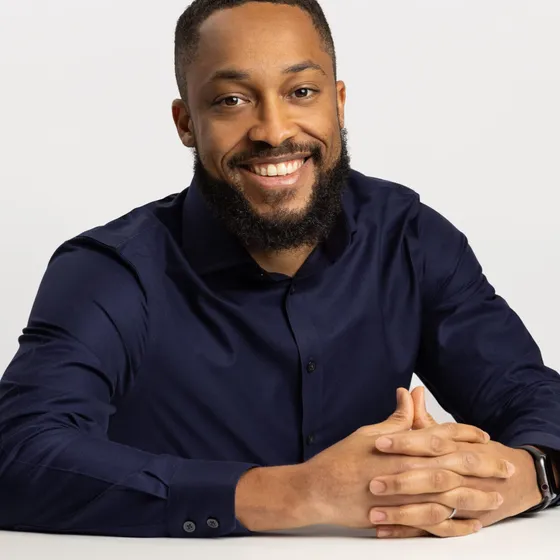
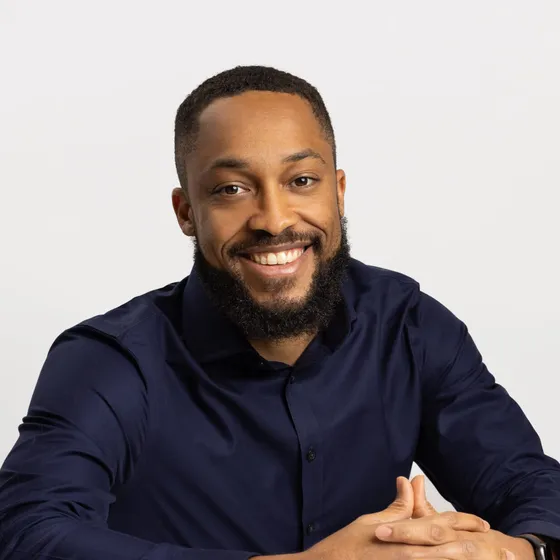
fix: correct AI Summit presenter verbiage + Evol headshot crop
Summit is presented by BERG Collective in partnership with Squarespace (was
"Presented by Squarespace"). Updates hero, footer, and SEO description, and
leads with the BERG logo. Also anchors Evol Greaves' crop to the top so the
top of his head is no longer clipped.

diff --git a/src/pages/AiSummitPage/AiSummitPage.jsx b/src/pages/AiSummitPage/AiSummitPage.jsx
@@ -271,7 +271,7 @@ function useSummitHead() {
   useEffect(() => {
     const title = 'Amplified Intelligence — The BERG AI Summit 2026';
     const description =
-      'Moving at the speed of thought. Join 150+ leaders at Squarespace HQ on June 27, 2026 to bridge the AI fluency gap and future-proof your career. Presented by Squarespace.';
+      'Moving at the speed of thought. Join 150+ leaders at Squarespace HQ on June 27, 2026 to bridge the AI fluency gap and future-proof your career. Presented by BERG Collective in partnership with Squarespace.';
     const url = `${SITE_URL}${PAGE_PATH}`;
 
     const created = [];
@@ -482,15 +482,28 @@ export default function AiSummitPage() {
           <div className={styles.heroGlow} aria-hidden="true" />
           <div className={styles.heroInner}>
             <div className={`${styles.presenting} ${styles.heroEnter}`}>
-              <span className={styles.presentedBy}>Presented by</span>
-              <img
-                className={styles.ssLogo}
-                src="/images/aisummit/squarespace-white.webp"
-                width="150"
-                height="22"
-                alt="Squarespace"
-                fetchPriority="high"
-              />
+              <span className={styles.presentingRow}>
+                <span className={styles.presentedBy}>Presented by</span>
+                <img
+                  className={styles.bergLogoHero}
+                  src="/images/aisummit/berg-white.webp"
+                  width="78"
+                  height="36"
+                  alt="BERG Collective"
+                  fetchPriority="high"
+                />
+              </span>
+              <span className={styles.presentingRow}>
+                <span className={styles.presentedBy}>in partnership with</span>
+                <img
+                  className={styles.ssLogo}
+                  src="/images/aisummit/squarespace-white.webp"
+                  width="132"
+                  height="19"
+                  alt="Squarespace"
+                  fetchPriority="high"
+                />
+              </span>
             </div>
             <img
               className={`${styles.heroLockup} ${styles.heroEnter}`}
@@ -748,22 +761,22 @@ export default function AiSummitPage() {
             <div className={styles.footerPresented}>
               <span className={styles.presentedBy}>Presented by</span>
               <img
-                className={styles.ssLogoFooter}
-                src="/images/aisummit/squarespace-white.webp"
-                width="132"
-                height="19"
-                alt="Squarespace"
-                loading="lazy"
-              />
-            </div>
-            <div className={styles.footerPresented}>
-              <span className={styles.presentedBy}>Organized by</span>
-              <img
                 className={styles.bergLogoFooter}
                 src="/images/aisummit/berg-white.webp"
                 width="100"
                 height="46"
                 alt="BERG Collective"
+                loading="lazy"
+              />
+            </div>
+            <div className={styles.footerPresented}>
+              <span className={styles.presentedBy}>In partnership with</span>
+              <img
+                className={styles.ssLogoFooter}
+                src="/images/aisummit/squarespace-white.webp"
+                width="132"
+                height="19"
+                alt="Squarespace"
                 loading="lazy"
               />
             </div>

diff --git a/scripts/optimize-aisummit-images.js b/scripts/optimize-aisummit-images.js
@@ -23,7 +23,8 @@ const SPEAKERS_OUT = join(OUT, 'speakers');
 // region before the square resize. Missing files are skipped with a warning.
 const SPEAKERS = {
   'dion-ridley': 'dion_headshot.jpg',
-  'evol-greaves': 'evol-headshot.jpg',
+  // Portrait source; auto-crop clipped the top of his head, so anchor near the top.
+  'evol-greaves': { file: 'evol-headshot.jpg', extract: { left: 0, top: 60, width: 1237, height: 1237 } },
   'justin-williams': 'justin williams.jpeg',
   'justin-elliot': 'justin-elliot.png',
   'ian-grant': 'ian grant.jpeg',

diff --git a/src/pages/AiSummitPage/AiSummitPage.module.css b/src/pages/AiSummitPage/AiSummitPage.module.css
@@ -298,8 +298,14 @@
 }
 .presenting {
   display: flex;
+  flex-direction: column;
   align-items: center;
-  gap: 13px;
+  gap: 9px;
+}
+.presentingRow {
+  display: flex;
+  align-items: center;
+  gap: 12px;
 }
 .presentedBy {
   font-size: 11px;
@@ -308,8 +314,13 @@
   letter-spacing: var(--tracking-meta);
   color: var(--text-muted);
 }
+.bergLogoHero {
+  width: 78px;
+  height: auto;
+  opacity: 0.95;
+}
 .ssLogo {
-  width: 152px;
+  width: 132px;
   height: auto;
   opacity: 0.92;
 }
